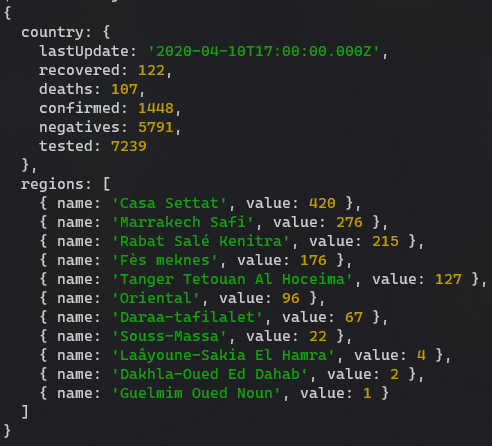
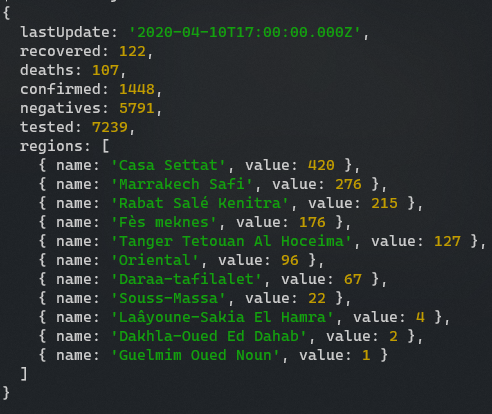
[FIX] change the returned object �♂

diff --git a/index.js b/index.js
@@ -65,7 +65,7 @@ const getAllData = async () => {
   const [regionsNode, countryNode] = await nodesFromUrl(WEBSITE_URL);
 
   return {
-    country: countryFromNode(countryNode),
+    ...countryFromNode(countryNode),
     regions: regionsFromNode(regionsNode),
   };
 };
